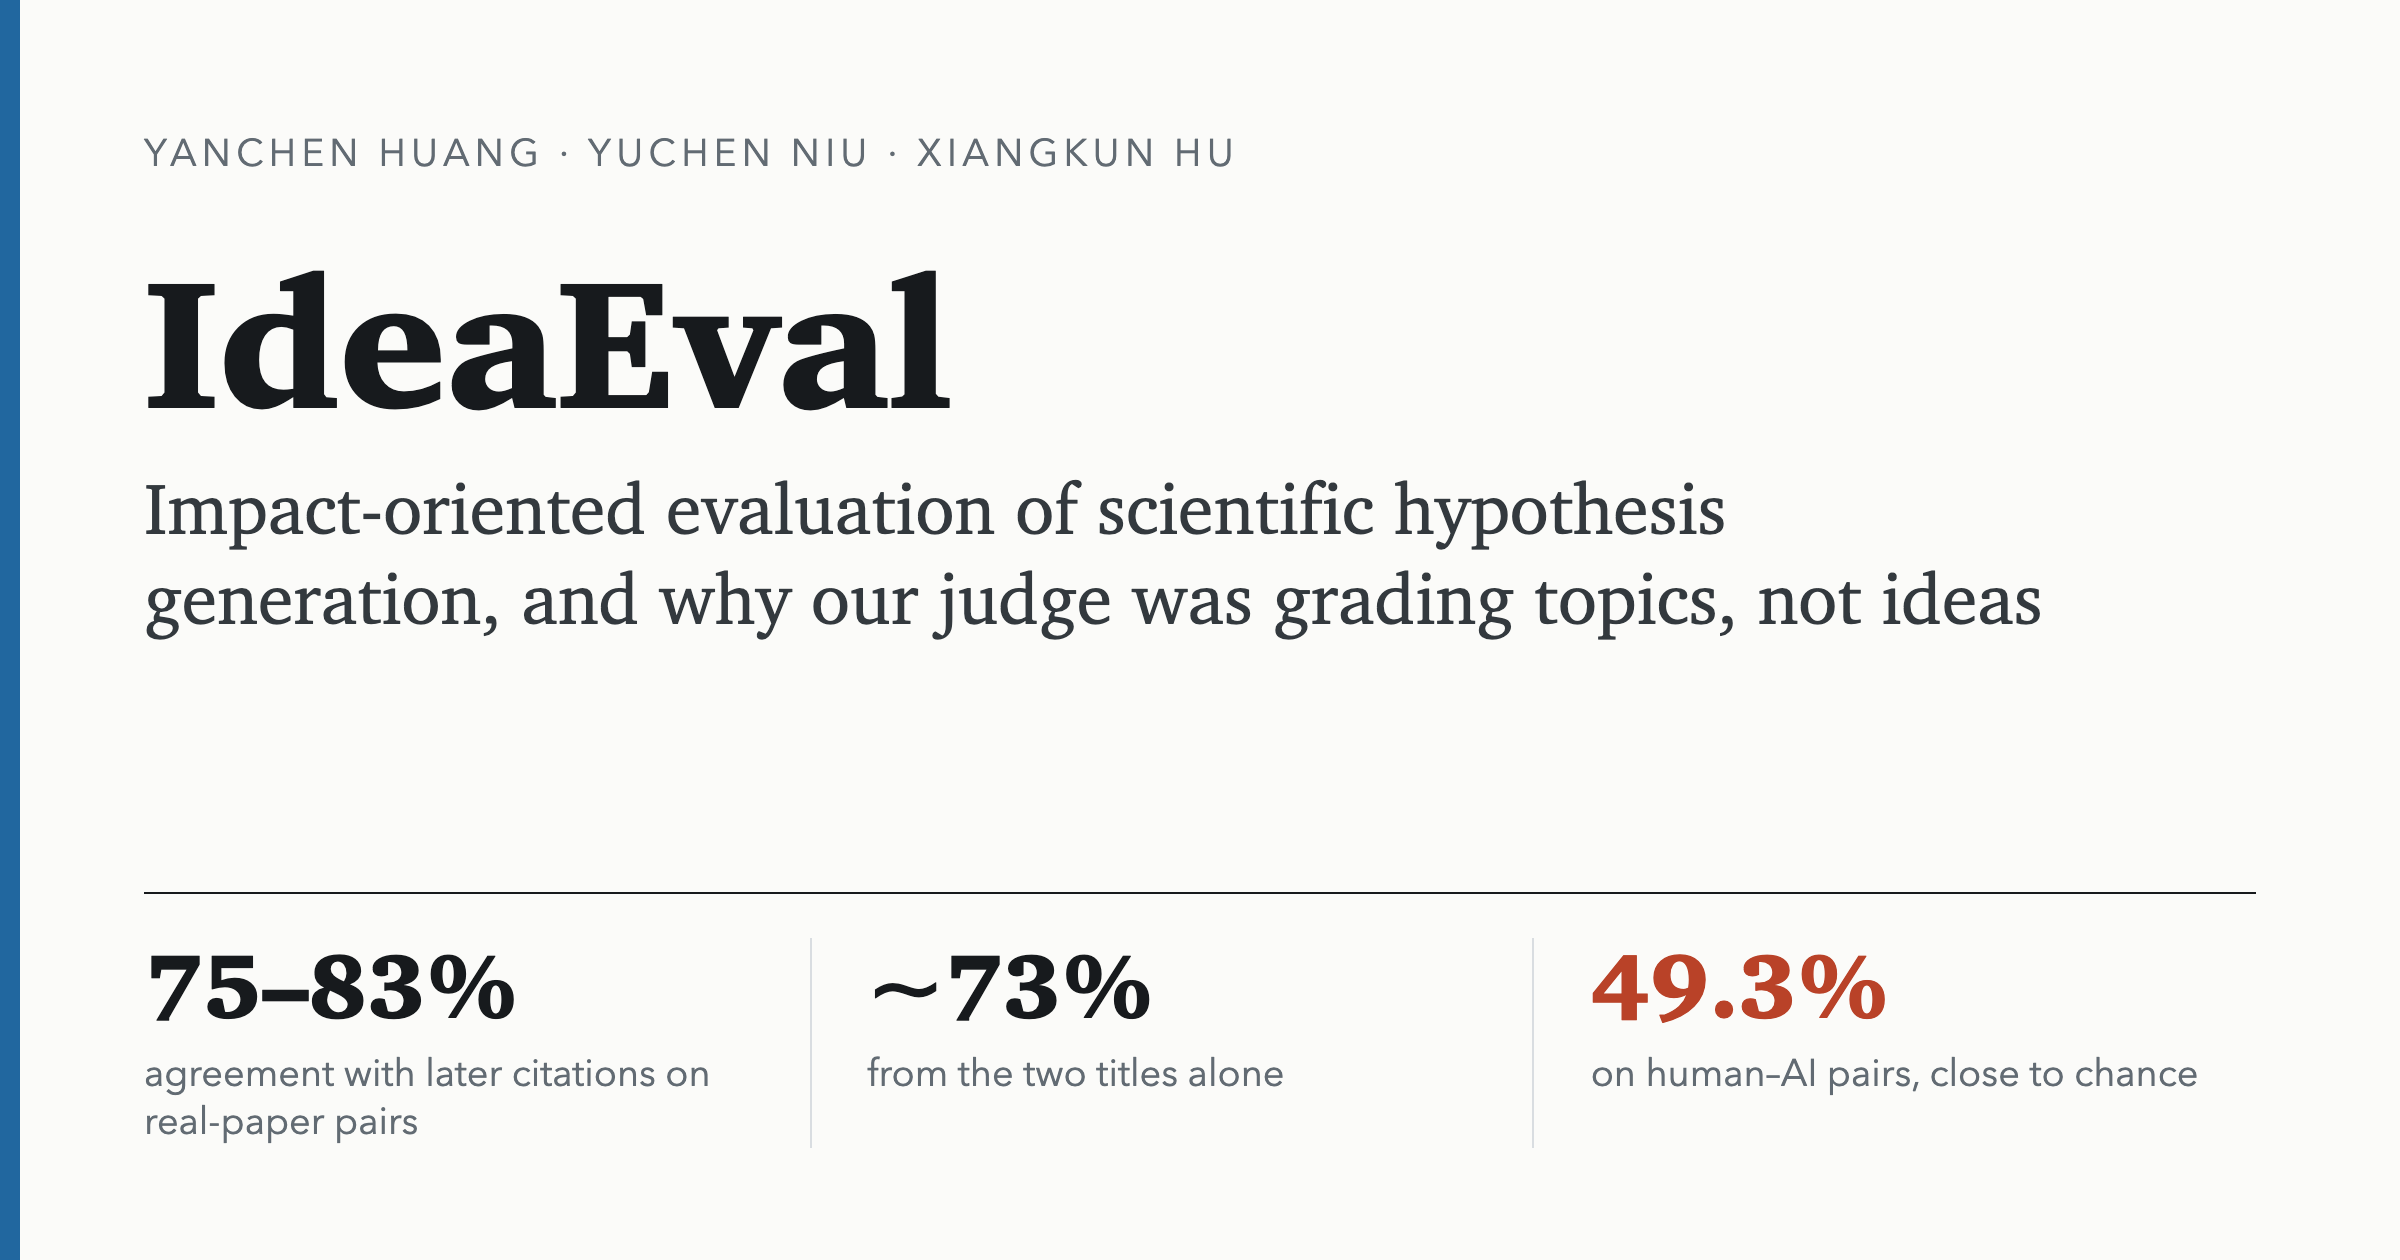
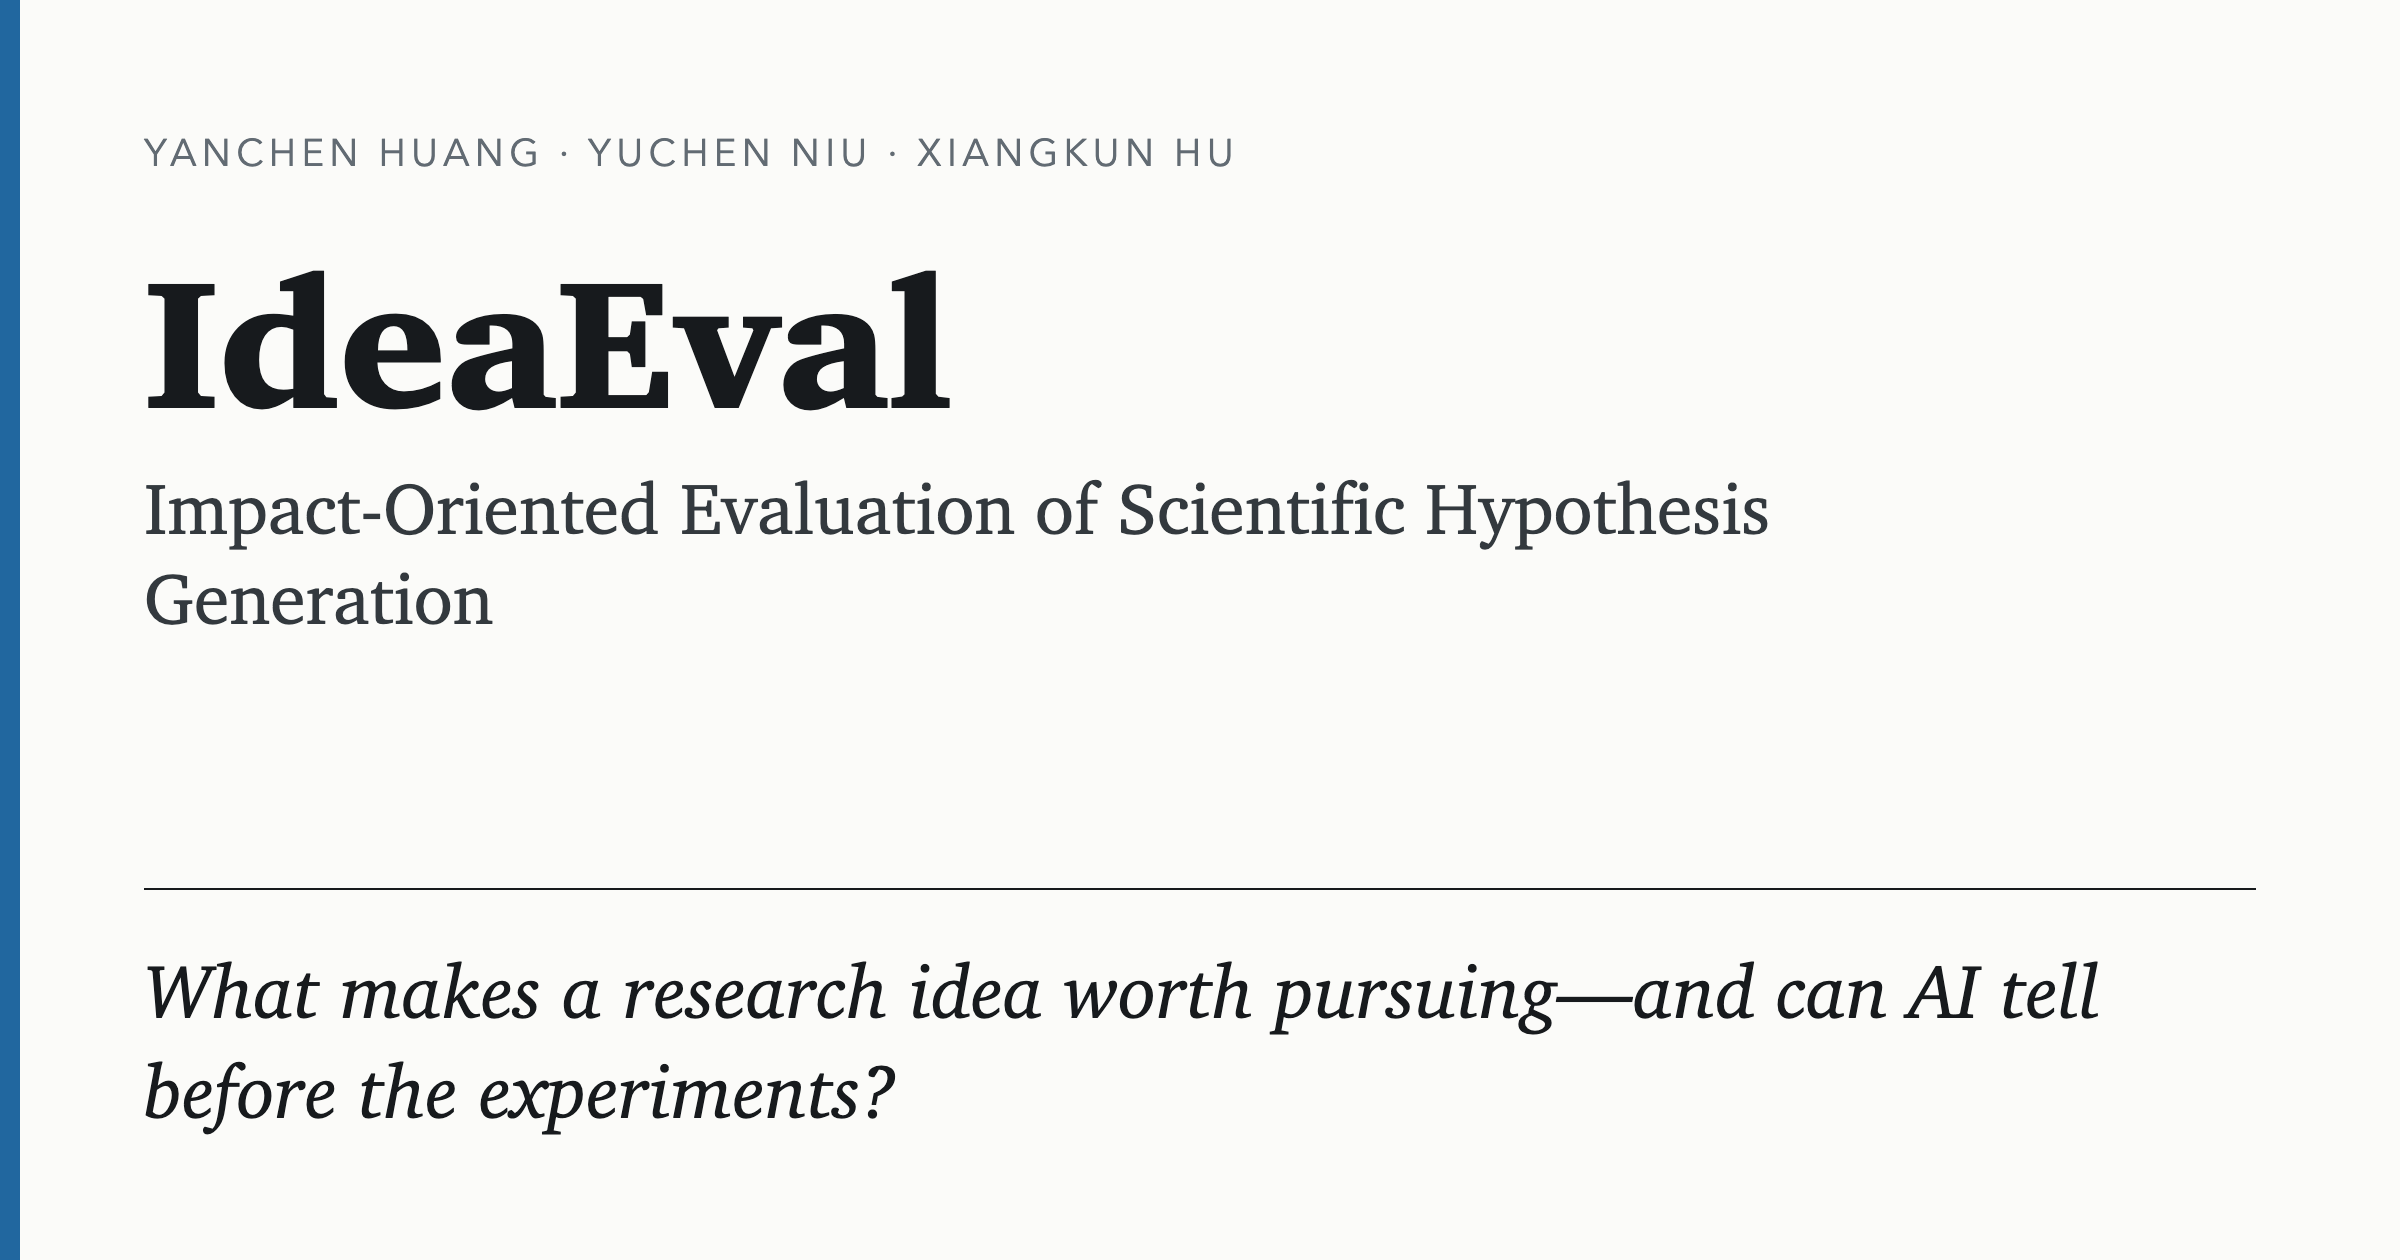
Keep IdeaEval share card spoiler-free: question-led summary and cover

diff --git a/content/posts/ideaeval-zh/index.md b/content/posts/ideaeval-zh/index.md
@@ -2,7 +2,7 @@
 title: "IdeaEval: Impact-Oriented Evaluation of Scientific Hypothesis Generation"
 date: 2026-10-16
 author: ["Yanchen Huang", "Yuchen Niu", "Xiangkun Hu"]
-description: "LLM judge 能学会 research taste 吗？我们用后续引用校准了一个两两比较 proposal 的 judge agent：在真实论文还原的 pair 上一致率 75–83%，但只看标题也有约 73%，在 human–AI pair 上仅 49.3%，接近随机。它评的是选题，而不是 idea。"
+description: "什么样的 research idea 值得投入？AI 能否在实验之前就做出判断？这是我们构建 IdeaEval 过程中的一些经验。"
 acknowledgment: "This work was conducted during an internship at Analemma AI. We gratefully acknowledge Hengquan Guo, Sheng Xia, Yuzhe Yang, Yuanbo Yang, Yiran Chen, and Tianxiang Sun for their valuable assistance and contributions."
 images: ["posts/ideaeval/cover.png"]
 math: true

diff --git a/content/posts/ideaeval/index.md b/content/posts/ideaeval/index.md
@@ -2,7 +2,7 @@
 title: "IdeaEval: Impact-Oriented Evaluation of Scientific Hypothesis Generation"
 date: 2026-10-16
 author: ["Yanchen Huang", "Yuchen Niu", "Xiangkun Hu"]
-description: "Can an LLM judge learn research taste? We calibrated a pairwise proposal judge against later citations: 75–83% agreement on real-paper pairs, yet about 73% from titles alone and 49.3% on human–AI pairs. It was grading topics, not ideas."
+description: "What makes a research idea worth pursuing—and can AI tell before the experiments? Lessons from building IdeaEval."
 acknowledgment: "This work was conducted during an internship at Analemma AI. We gratefully acknowledge Hengquan Guo, Sheng Xia, Yuzhe Yang, Yuanbo Yang, Yiran Chen, and Tianxiang Sun for their valuable assistance and contributions."
 math: true
 tags: ["Auto Research", "Idea Evaluation", "LLM Agents"]
